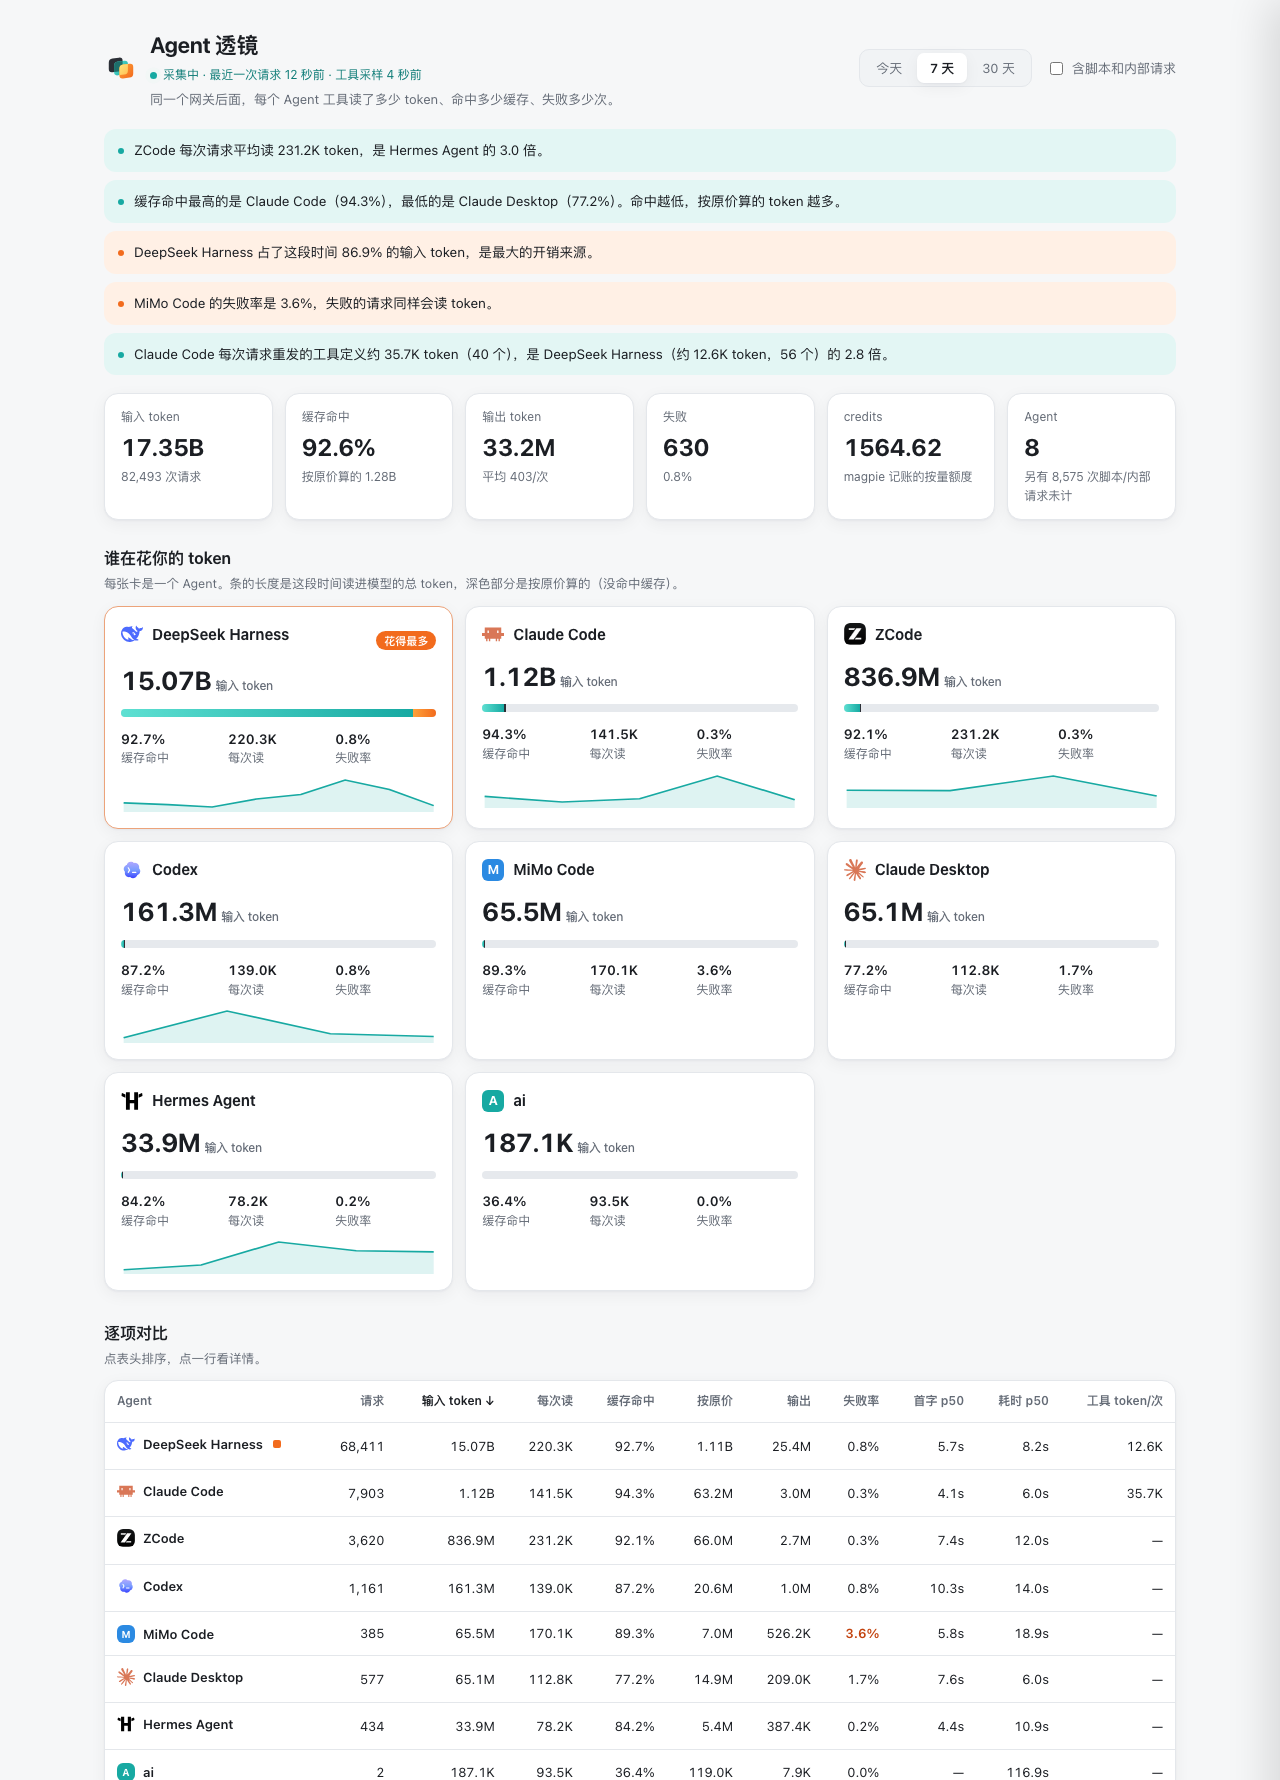
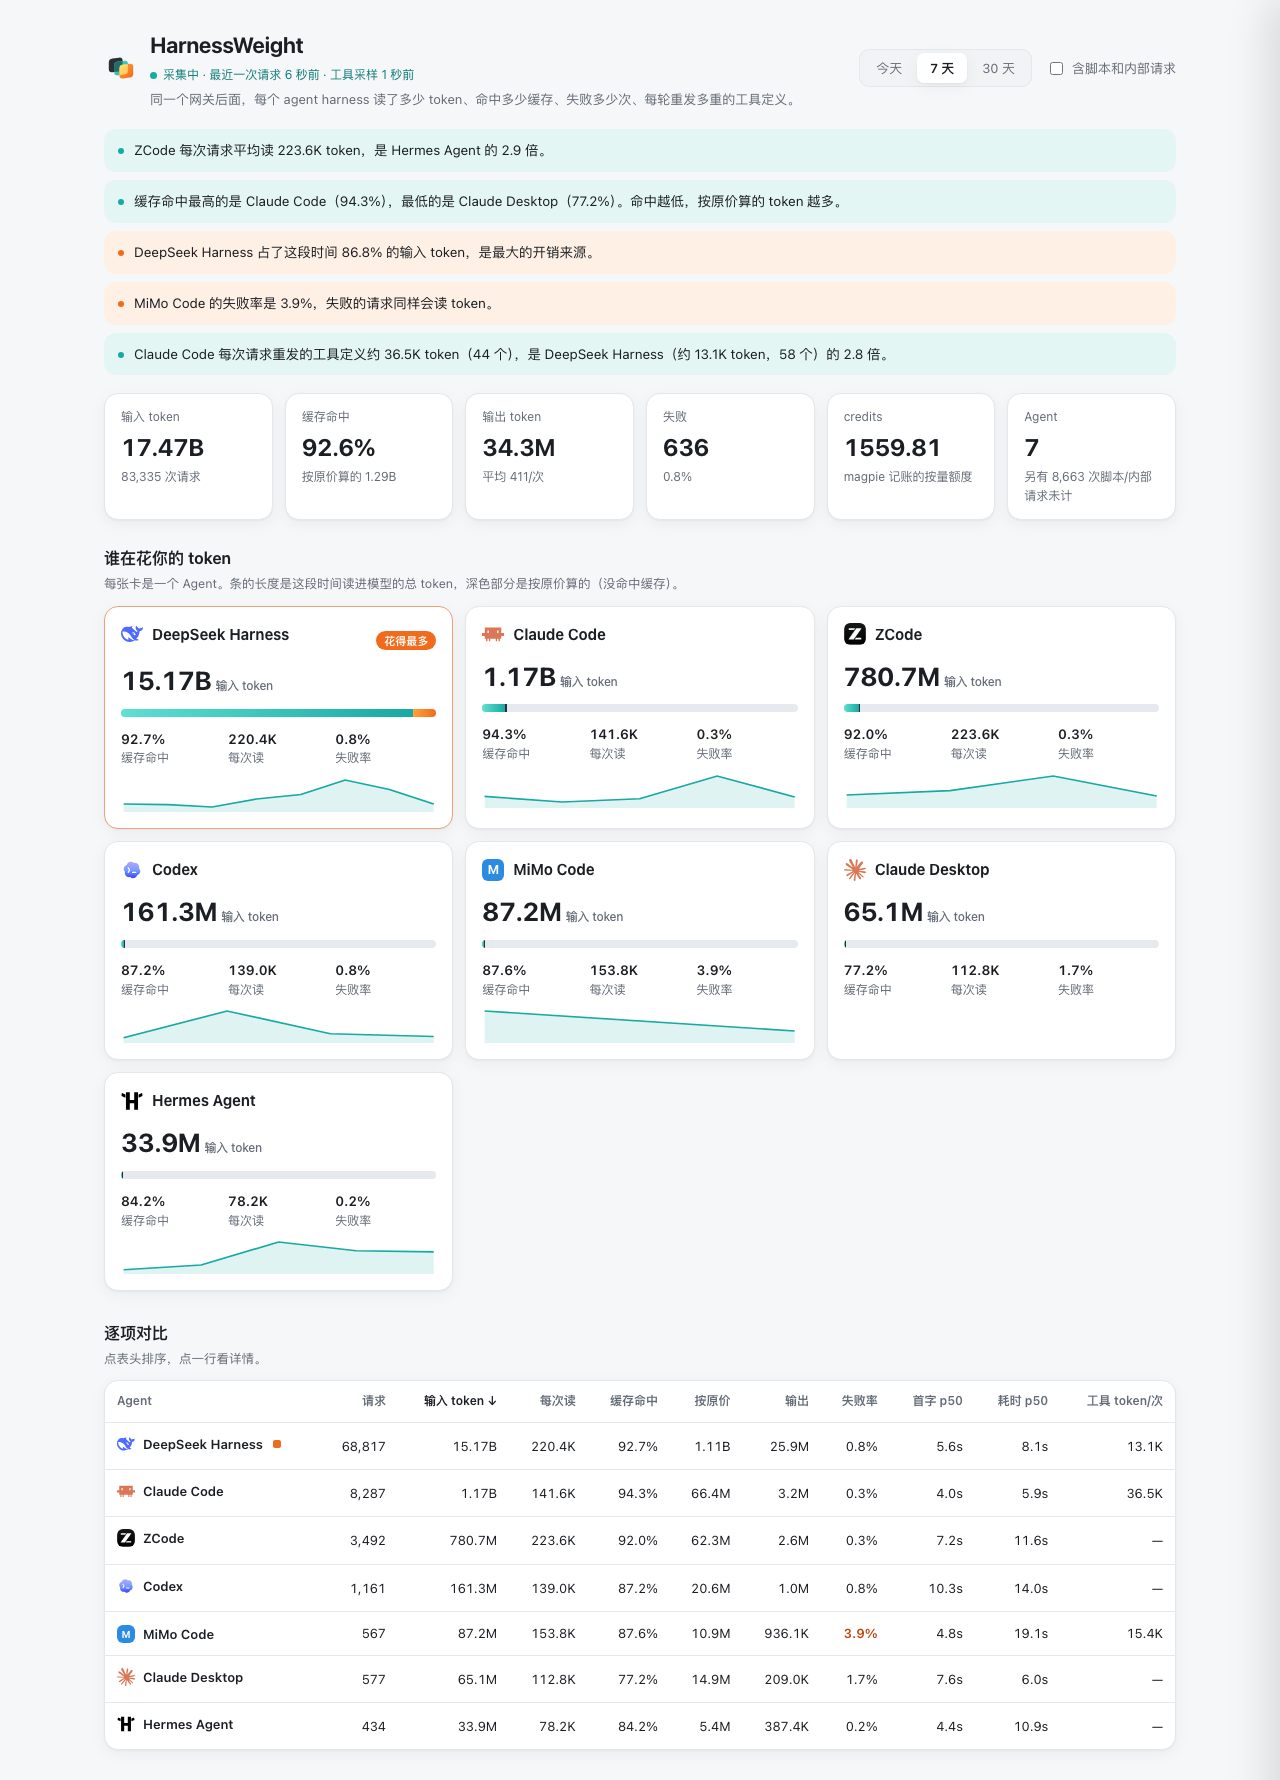
feat!: 0.4.0 改名 HarnessWeight（原 Agent Lens 与多个项目重名）；旧采样目录自动迁移

diff --git a/brand/review.html b/brand/review.html
@@ -1,6 +1,6 @@
 <!doctype html>
 <html lang="zh-CN"><head><meta charset="utf-8">
-<meta http-equiv="Content-Security-Policy" content="default-src &#x27;none&#x27;; img-src data:; style-src &#x27;unsafe-inline&#x27;; script-src &#x27;sha256-ra3D432/iDavUrO2XX7UqNXYN7RNeqf8KSIW/B1AIPQ=&#x27;; connect-src &#x27;none&#x27;; font-src &#x27;none&#x27;; object-src &#x27;none&#x27;; base-uri &#x27;none&#x27;; form-action &#x27;none&#x27;">
+<meta http-equiv="Content-Security-Policy" content="default-src &#x27;none&#x27;; img-src data:; style-src &#x27;unsafe-inline&#x27;; script-src &#x27;sha256-zgbjuIKkY3JaLjGgttFh7sD6HJ4V7v/Z8oYO/7NkzGc=&#x27;; connect-src &#x27;none&#x27;; font-src &#x27;none&#x27;; object-src &#x27;none&#x27;; base-uri &#x27;none&#x27;; form-action &#x27;none&#x27;">
 <meta name="viewport" content="width=device-width,initial-scale=1"><title>品牌标识 · 离线评审</title>
 <style>
 :root {color-scheme:light; font:15px/1.55 system-ui,sans-serif;color:#18212f;background:#f1f4f8}
@@ -34,7 +34,7 @@ pre {white-space:pre-wrap;overflow-wrap:anywhere;max-height:360px;overflow:auto}
 <button type="button" data-size="32">32px</button><button type="button" data-size="64">64px</button><button type="button" data-size="128">128px</button></div>
 <div class="actions" id="downloads"></div><noscript>本页需启用 JavaScript 才能切换预览、下载和复制。所有逻辑均已内嵌。</noscript>
 <div id="projects"></div></main><script>
[2 lines of base64/hex data omitted]
 const root = document.getElementById('projects');
 const bgButtons = [...document.querySelectorAll('[data-background]')];
 const sizeButtons = [...document.querySelectorAll('[data-size]')];

diff --git a/app/index.html b/app/index.html
@@ -3,7 +3,7 @@
 <head>
 <meta charset="utf-8">
 <meta name="viewport" content="width=device-width, initial-scale=1">
-<title>Agent Lens · Agent 透镜</title>
+<title>HarnessWeight · agent harness token weight</title>
 <link rel="icon" href="logo.svg" type="image/svg+xml">
 <link rel="stylesheet" href="style.css">
 <script>
@@ -17,9 +17,9 @@
   <div class="brand">
     <img class="logo on-light" src="logo.svg" alt="" width="34" height="34"><img class="logo on-dark" src="logo-dark.svg" alt="" width="34" height="34">
     <div>
-      <h1>Agent 透镜</h1>
+      <h1>HarnessWeight</h1>
       <p class="status wait" id="status" role="status">正在读取…</p>
-      <p class="sub">同一个网关后面，每个 Agent 工具读了多少 token、命中多少缓存、失败多少次。</p>
+      <p class="sub">同一个网关后面，每个 agent harness 读了多少 token、命中多少缓存、失败多少次、每轮重发多重的工具定义。</p>
     </div>
   </div>
   <div class="controls">
@@ -72,7 +72,7 @@
 <footer class="foot">
   <span>数据只在本机读取，不上传。</span>
   <span id="sources"></span>
-  <a href="https://github.com/webkubor/agent-lens" target="_blank" rel="noopener">GitHub</a>
+  <a href="https://github.com/webkubor/harnessweight" target="_blank" rel="noopener">GitHub</a>
 </footer>
 </body>
 </html>

diff --git a/app/app.js b/app/app.js
@@ -1,4 +1,4 @@
-// Agent Lens — the interface. Served by the plugin's own service, so the
+// HarnessWeight — the interface. Served by the plugin's own service, so the
 // data is a same-origin fetch away.
 
 const $ = (id) => document.getElementById(id)
@@ -18,7 +18,7 @@ const state = {
 }
 
 // the service writes a per-start token into this page's HTML
-const TOKEN = document.querySelector('meta[name="agent-lens-token"]')?.content || ""
+const TOKEN = document.querySelector('meta[name="harnessweight-token"]')?.content || ""
 let reloaded = false
 const sessionStorageSafe = () => reloaded || location.hash === "#r"
 function markReloaded() { reloaded = true; location.hash = "r" }

diff --git a/page/index.html b/page/index.html
@@ -3,7 +3,7 @@
 <head>
 <meta charset="utf-8">
 <meta name="viewport" content="width=device-width, initial-scale=1">
-<title>Agent Lens</title>
+<title>HarnessWeight</title>
 <script src="_magpie/bridge.js"></script>
 <script src="boot.js"></script>
 <style>
@@ -15,6 +15,6 @@
 </style>
 </head>
 <body>
-<div class="wait"><img src="icon.svg" alt=""><p id="msg">正在打开 Agent Lens…</p></div>
+<div class="wait"><img src="icon.svg" alt=""><p id="msg">正在打开 HarnessWeight…</p></div>
 </body>
 </html>

diff --git a/app/style.css b/app/style.css
@@ -1,4 +1,4 @@
-/* Agent Lens — brand v2: teal #17A9A2, orange #F26B1D, warm yellow #FFB547, graphite #2B2F36.
+/* HarnessWeight — brand v2: teal #17A9A2, orange #F26B1D, warm yellow #FFB547, graphite #2B2F36.
    Orange marks "the most expensive one" only; it is never decoration. */
 :root {
   --bg: #F6F7F8; --panel: #FFFFFF; --panel-2: #F1F3F5; --fg: #1B1E23; --muted: #646B76; --line: #E4E7EB;
